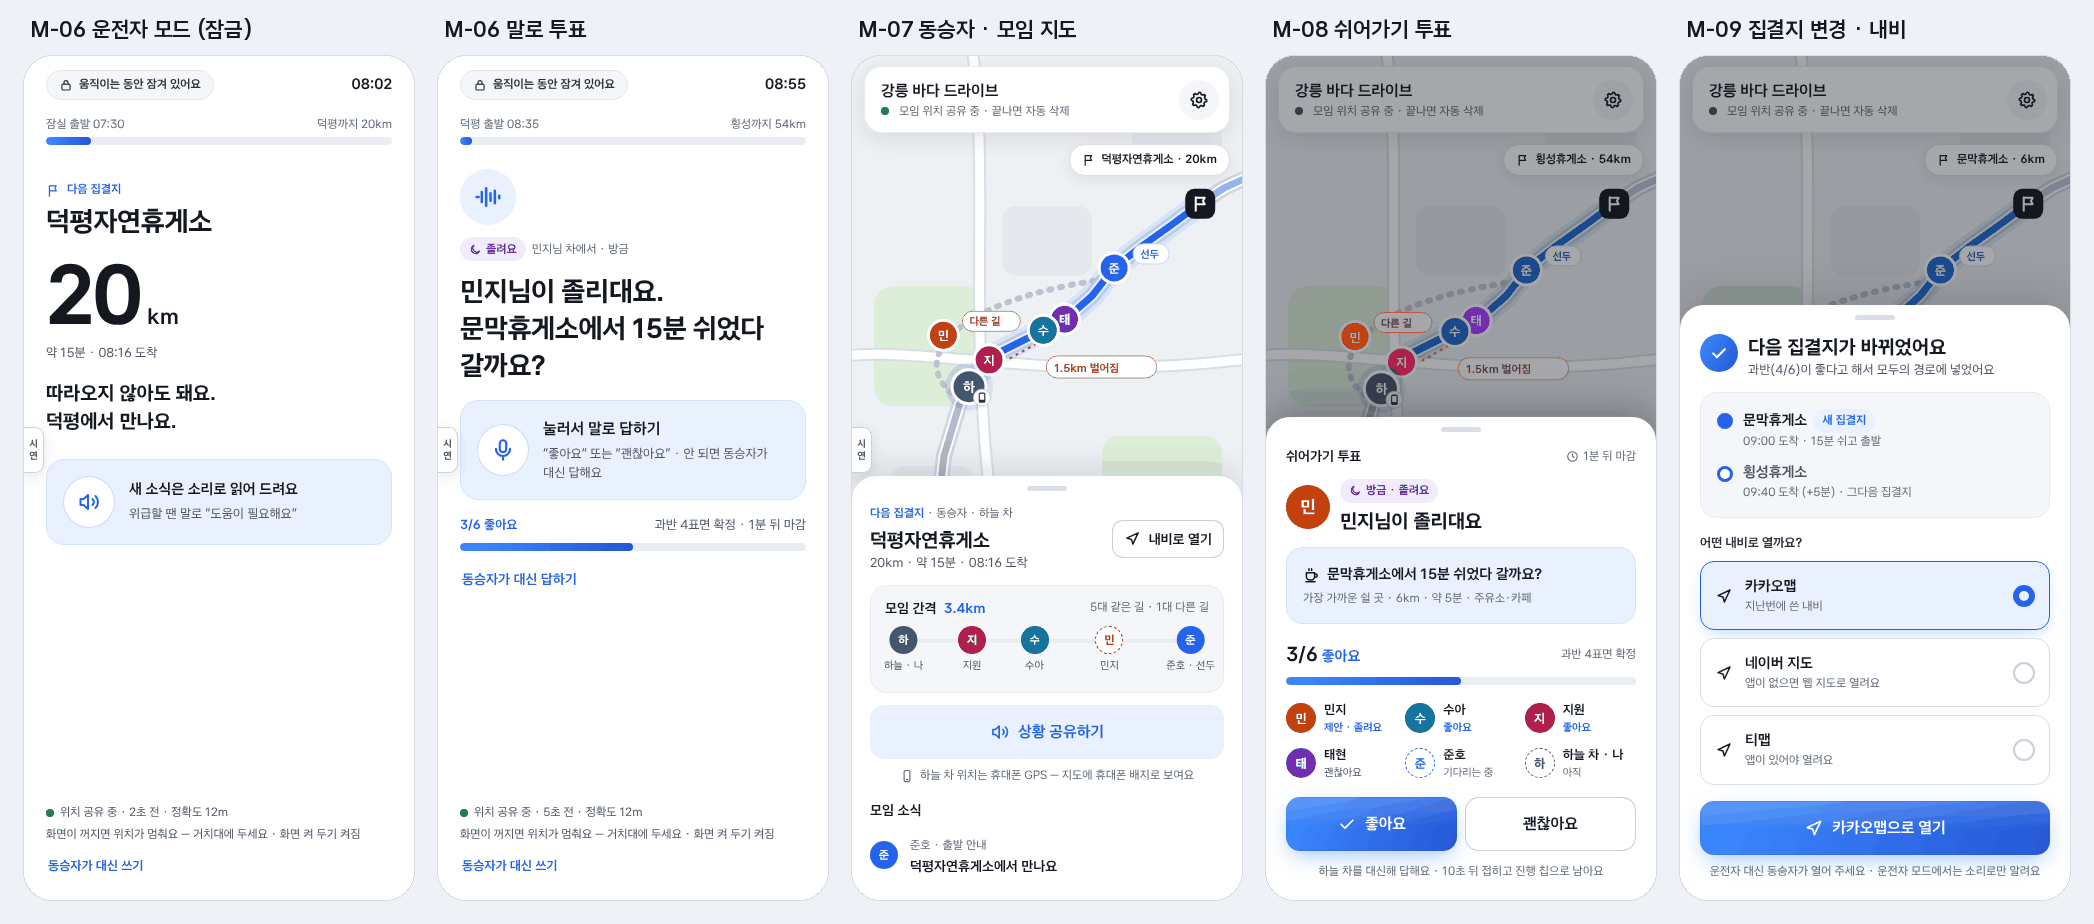
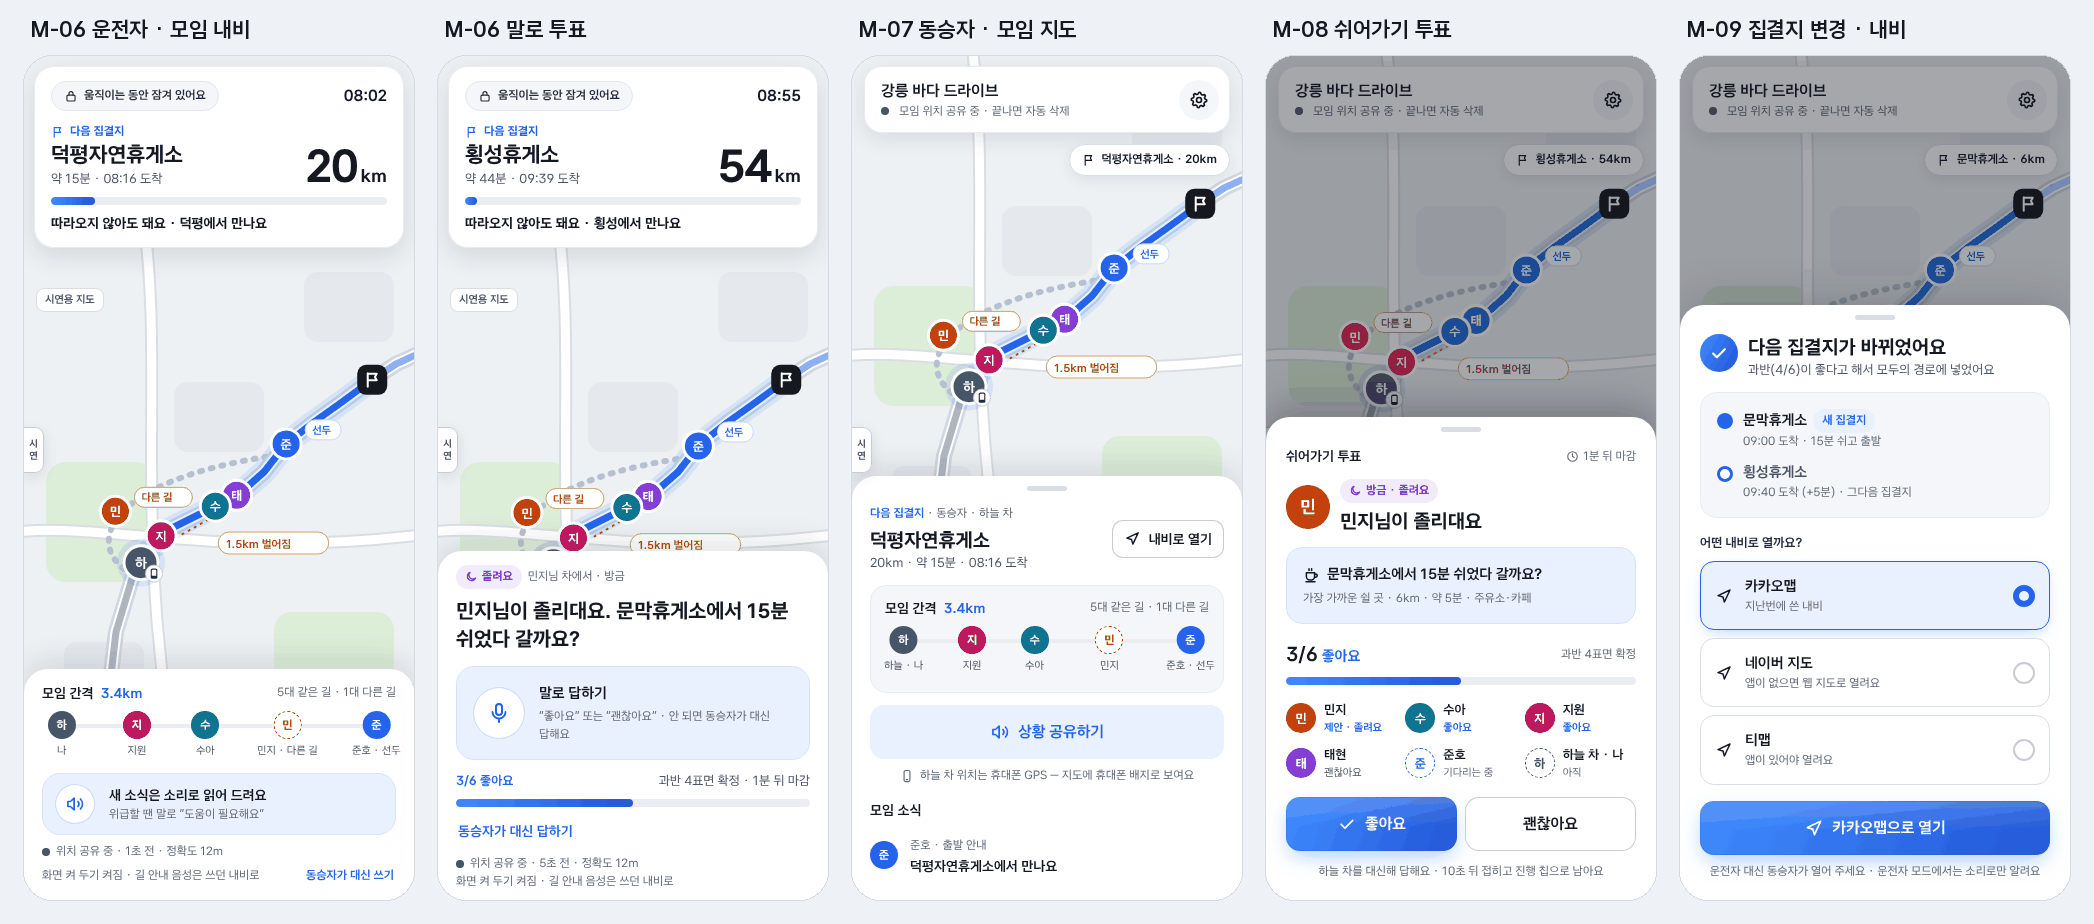
휴대폰 운전자 모드를 ‘모임 내비’ 화면으로: 지도 · 모임 차 위치 · 다음 집결지를 크게
- 움직이는 동안 잠금 카드 대신, 거치한 휴대폰에 모임 지도(다음 집결지 · 남은 거리 · 도착 예정 ·
  모임 차 위치와 간격)를 띄움. 지리안내 영상 표시는 허용, 운전 중 조작은 금지(도로교통법 제49조)라
  누르지 않아도 되게: 소식은 소리로, 쉬어가기 투표는 말로, 누르는 시트는 운전자 모드에서 띄우지 않음
- 투표가 오면 지도 아래에 크게 · 집결지가 바뀌면 위 카드에 ‘바뀐 집결지’
- README · mobile/README 화면과 설명 갱신

Claude-Session: https://claude.ai/code/session_01RMhvkZbt1yyGmq5ZhrM1H7

diff --git a/mobile/src/screens/Trip.tsx b/mobile/src/screens/Trip.tsx
@@ -84,82 +84,100 @@ export function TripScreen() {
   if (!trip.active || trip.step === 'lobby') return null
   if (trip.step === 'regroup1') return <ArriveView />
   if (trip.step === 'ended') return <EndView />
-  if (role === 'driver' && !trip.unlocked) return <DriverLock />
+  if (role === 'driver' && !trip.unlocked) return <DriverNav />
   return <PassengerMap />
 }
 
-// ---------------- M-06 운전자 모드 · 움직이는 동안 잠금 ----------------
+// ---------------- M-06 운전자 모드 · 모임 내비 (움직이는 동안 잠금) ----------------
+// 거치한 휴대폰에 지도(지리안내 영상)를 보여 주는 것은 괜찮지만, 운전 중 조작은 안 된다 (도로교통법 제49조).
+// 그래서 누르지 않아도 되는 화면: 다음 집결지 · 남은 거리 · 모임 차 위치와 간격을 크게, 소식은 소리로, 답은 말로.
 
-function DriverLock() {
+function DriverNav() {
   const trip = useApp((s) => s.trip)
   const keepAwake = useApp((s) => s.settings.keepAwake)
   const all = useMembers()
   const loc = useLocationLine()
+  const { markers, gap, gapText } = useMarkers()
   const next = nextOf(trip)
   const vote = trip.vote
   const pending = vote && !trip.voteResult
   const proposer = vote ? all.find((m) => m.id === vote.proposerId) : undefined
   const startKm = START_KM[trip.step] ?? 21
-  const prevStop = trip.step === 'drive1' ? '잠실 출발 07:30' : trip.munmak ? '횡성 가는 길' : '덕평 출발 08:35'
   const myVote = vote?.votes[ME]
+  const order = ['me', 'jiwon', 'sua', 'minji', 'junho']
   return (
-    <div className="lock">
-      <div className="spread">
-        <span className="lock-pill">
-          <Icon name="lock" size={14} /> 움직이는 동안 잠겨 있어요
-        </span>
-        <b style={{ fontSize: 15 }}>{liveClock(trip)}</b>
+    <div className="mapscreen">
+      <div className="drive-map">
+        <MockMap markers={markers} gapBetween={gap} gapText={gapText} />
       </div>
-      {next && (
-        <div className="mt16">
-          <div className="spread tiny">
-            <span>{prevStop}</span>
-            <span>
-              {next.short}까지 {next.km}km
-            </span>
-          </div>
-          <div className="mt4">
-            <Progress value={startKm - next.km + 2} max={startKm + 2} />
-          </div>
-        </div>
-      )}
-
-      {pending && vote ? (
-        <div className="mt24">
-          <span className="lock-wave">
-            <Icon name="wave" size={30} />
+      <div className="drive-card">
+        <div className="spread">
+          <span className="lock-pill">
+            <Icon name="lock" size={14} /> 움직이는 동안 잠겨 있어요
           </span>
-          <p className="mt12 row" style={{ gap: 6 }}>
-            <Chip tone="night" icon="moon">
-              {SIGNAL_LABEL.SLEEPY}
-            </Chip>
-            <span className="tiny">{proposer?.id === ME ? '내가 제안 · 방금' : `${proposer?.name}님 차에서 · 방금`}</span>
-          </p>
-          <h1 className="h1 mt12" style={{ fontSize: 28 }}>
-            {proposer?.id === ME ? '쉬어가기를 제안했어요.' : `${proposer?.name}님이 졸리대요.`}
-            <br />
-            {vote.stopName}에서 {vote.restMinutes}분 쉬었다 갈까요?
-          </h1>
-          {myVote ? (
-            <Card className="mt16 accent">
-              <p className="row" style={{ fontWeight: 700, color: 'var(--accent)' }}>
-                <Icon name="checkCircle" /> ‘{myVote === 'YES' ? '좋아요' : '괜찮아요'}’로 답했어요
+          <b style={{ fontSize: 16 }}>{liveClock(trip)}</b>
+        </div>
+        {next && (
+          <>
+            <p className="tiny mt12 row" style={{ gap: 5, color: 'var(--accent)', fontWeight: 800 }}>
+              <Icon name="flag" size={14} /> {trip.munmak ? '바뀐 집결지' : '다음 집결지'}
+            </p>
+            <div className="spread" style={{ alignItems: 'flex-end' }}>
+              <div className="grow">
+                <h1 className="h2" style={{ fontSize: 22 }}>
+                  {next.name}
+                </h1>
+                <p className="small">
+                  약 {next.minutes}분 · {trip.munmak ? '09:00' : next.eta} 도착
+                </p>
+              </div>
+              <p className="drive-km">
+                {next.km}
+                <small>km</small>
               </p>
-              <p className="tiny mt4">다른 분들의 답을 기다리고 있어요 · 결과는 소리로 알려 드려요</p>
-            </Card>
-          ) : (
-            <button className="listen mt16" onClick={() => (canListen() ? listenForVote() : setTrip((t) => ({ ...t, unlocked: true, sheet: 'vote' })))}>
-              <span className={`listen-mic${trip.listening === 'vote' ? '' : ' idle'}`}>
-                <Icon name="mic" size={26} />
-              </span>
-              <span className="grow">
-                <b style={{ fontSize: 16 }}>{trip.listening === 'vote' ? '듣고 있어요 — 말로 답해 주세요' : canListen() ? '눌러서 말로 답하기' : '이 브라우저는 음성 인식이 없어요'}</b>
-                <p className="small mt4">“좋아요” 또는 “괜찮아요” · 안 되면 동승자가 대신 답해요</p>
-              </span>
-            </button>
-          )}
-          <div className="mt16">
-            <div className="spread small">
+            </div>
+            <div className="mt8">
+              <Progress value={startKm - next.km + 2} max={startKm + 2} />
+            </div>
+            <p className="mt8" style={{ fontSize: 14, fontWeight: 800 }}>
+              따라오지 않아도 돼요 · {next.short}에서 만나요
+            </p>
+          </>
+        )}
+      </div>
+      <span className="map-demo" style={{ top: 'calc(232px + env(safe-area-inset-top))', bottom: 'auto' }}>
+        시연용 지도
+      </span>
+
+      <div className="drive-bottom">
+        {pending && vote ? (
+          <>
+            <p className="row" style={{ gap: 6 }}>
+              <Chip tone="night" icon="moon">
+                {SIGNAL_LABEL.SLEEPY}
+              </Chip>
+              <span className="tiny">{proposer?.id === ME ? '내가 제안 · 방금' : `${proposer?.name}님 차에서 · 방금`}</span>
+            </p>
+            <h2 className="h2 mt8" style={{ fontSize: 21 }}>
+              {proposer?.id === ME ? '쉬어가기를 제안했어요. ' : `${proposer?.name}님이 졸리대요. `}
+              {vote.stopName}에서 {vote.restMinutes}분 쉬었다 갈까요?
+            </h2>
+            {myVote ? (
+              <p className="small mt8 row" style={{ gap: 6, color: 'var(--accent)', fontWeight: 700 }}>
+                <Icon name="checkCircle" size={18} /> ‘{myVote === 'YES' ? '좋아요' : '괜찮아요'}’로 답했어요 · 결과는 소리로 알려 드려요
+              </p>
+            ) : (
+              <button className="listen mt12" onClick={() => (canListen() ? listenForVote() : setTrip((t) => ({ ...t, unlocked: true, sheet: 'vote' })))}>
+                <span className={`listen-mic${trip.listening === 'vote' ? '' : ' idle'}`}>
+                  <Icon name="mic" size={24} />
+                </span>
+                <span className="grow">
+                  <b>{trip.listening === 'vote' ? '듣고 있어요 — 말로 답해 주세요' : canListen() ? '말로 답하기' : '이 브라우저는 음성 인식이 없어요'}</b>
+                  <p className="tiny mt4">“좋아요” 또는 “괜찮아요” · 안 되면 동승자가 대신 답해요</p>
+                </span>
+              </button>
+            )}
+            <div className="spread small mt12">
               <b style={{ color: 'var(--accent)' }}>
                 {yesCount(vote)}/{vote.memberIds.length} 좋아요
               </b>
@@ -168,60 +186,57 @@ function DriverLock() {
             <div className="mt8">
               <Progress value={yesCount(vote)} max={vote.memberIds.length} />
             </div>
-          </div>
-          <button className="link-btn mt12" onClick={() => setTrip((t) => ({ ...t, unlocked: true, sheet: 'vote' }))}>
-            동승자가 대신 답하기
-          </button>
+            <button className="link-btn mt8" onClick={() => setTrip((t) => ({ ...t, unlocked: true, sheet: 'vote' }))}>
+              동승자가 대신 답하기
+            </button>
+          </>
+        ) : (
+          <>
+            <div className="spread">
+              <p style={{ fontSize: 14 }}>
+                <b>모임 간격</b> <b className="accent-text" style={{ marginLeft: 4 }}>{stepOf(trip.step).gapKm ?? 3.4}km</b>
+              </p>
+              <span className="tiny">5대 같은 길 · 1대 다른 길</span>
+            </div>
+            <div className="gapbar">
+              <span className="gapbar-line" />
+              {order.map((id, i) => {
+                const m = all.find((x) => x.id === id)!
+                return (
+                  <span className="gapbar-item" key={id} style={{ left: `${[4, 26, 46, 70, 96][i]}%` }}>
+                    <Avatar m={m} size={28} dashed={id === 'minji'} />
+                    <span>{id === ME ? '나' : id === 'junho' ? `${m.name} · 선두` : id === 'minji' ? `${m.name} · 다른 길` : m.name}</span>
+                  </span>
+                )
+              })}
+            </div>
+            <button className="listen mt8" style={{ padding: '10px 12px' }} onClick={listenForSignal}>
+              <span className={`listen-mic${trip.listening === 'signal' ? '' : ' idle'}`} style={{ width: 40, height: 40 }}>
+                <Icon name={trip.listening === 'signal' ? 'mic' : 'volume'} size={20} />
+              </span>
+              <span className="grow">
+                <b style={{ fontSize: 14 }}>{trip.listening === 'signal' ? '듣고 있어요…' : '새 소식은 소리로 읽어 드려요'}</b>
+                <p className="tiny">위급할 땐 말로 “도움이 필요해요”</p>
+              </span>
+            </button>
+          </>
+        )}
+        <div className="spread mt8">
+          <p className="tiny row" style={{ gap: 0 }}>
+            <span className={`dot-live${loc.tone === 'on' ? '' : ` ${loc.tone}`}`} />
+            {loc.text}
+          </p>
         </div>
-      ) : next ? (
-        <div className="mt24">
-          {trip.munmak && (
-            <Chip tone="accent" icon="checkCircle">
-              과반이 좋다고 해서 바뀐 집결지예요
-            </Chip>
+        <div className="spread">
+          <span className="tiny">화면 켜 두기 {keepAwake ? '켜짐' : '꺼짐'} · 길 안내 음성은 쓰던 내비로</span>
+          {!pending && (
+            <button className="link-btn" style={{ fontSize: 12 }} onClick={() => setTrip((t) => ({ ...t, unlocked: true }))}>
+              동승자가 대신 쓰기
+            </button>
           )}
-          <p className="row tiny mt12" style={{ gap: 6, color: 'var(--accent)', fontWeight: 700 }}>
-            <Icon name="flag" size={15} /> 다음 집결지
-          </p>
-          <h1 className="h1 mt4" style={{ fontSize: 28 }}>
-            {next.name}
-          </h1>
-          <p className="lock-big mt12">
-            {next.km}
-            <small>km</small>
-          </p>
-          <p className="small mt8">
-            약 {next.minutes}분 · {trip.munmak ? '09:00' : next.eta} 도착
-          </p>
-          <p className="mt16" style={{ fontSize: 20, fontWeight: 800, lineHeight: 1.4 }}>
-            따라오지 않아도 돼요.
-            <br />
-            {next.short}에서 만나요.
-          </p>
-          <button className="listen mt24" onClick={listenForSignal}>
-            <span className={`listen-mic${trip.listening === 'signal' ? '' : ' idle'}`}>
-              <Icon name={trip.listening === 'signal' ? 'mic' : 'volume'} size={24} />
-            </span>
-            <span className="grow">
-              <b>{trip.listening === 'signal' ? '듣고 있어요…' : '새 소식은 소리로 읽어 드려요'}</b>
-              <p className="small mt4">위급할 땐 말로 “도움이 필요해요”</p>
-            </span>
-          </button>
         </div>
-      ) : null}
-
-      <div className="lock-foot">
-        <p className="row" style={{ gap: 0 }}>
-          <span className={`dot-live${loc.tone === 'on' ? '' : ` ${loc.tone}`}`} />
-          {loc.text}
-        </p>
-        <p className="mt4">
-          화면이 꺼지면 위치가 멈춰요 — 거치대에 두세요 · 화면 켜 두기 {keepAwake ? '켜짐' : '꺼짐'}
-        </p>
-        <button className="link-btn mt8" style={{ fontSize: 13 }} onClick={() => setTrip((t) => ({ ...t, unlocked: true }))}>
-          동승자가 대신 쓰기
-        </button>
       </div>
+      {/* 운전자 모드에서는 누르는 시트를 띄우지 않는다 (투표는 말로, 집결지 변경은 위 카드와 소리로) */}
     </div>
   )
 }

diff --git a/mobile/src/styles.css b/mobile/src/styles.css
@@ -1668,3 +1668,51 @@ p {
 
 .demo-links { display: grid; grid-template-columns: repeat(3, 1fr); gap: 6px; }
 .demo-links .btn { width: 100%; padding: 0 6px; font-size: 13px; white-space: nowrap; gap: 4px; }
+
+/* 운전자 모드 · 모임 내비 (지도는 머리 카드 아래부터) */
+.drive-map {
+  position: absolute;
+  top: calc(176px + env(safe-area-inset-top));
+  left: 0;
+  right: 0;
+  bottom: 0;
+}
+
+.drive-card {
+  position: absolute;
+  z-index: 3;
+  top: calc(10px + env(safe-area-inset-top));
+  left: 10px;
+  right: 10px;
+  padding: 14px 16px 14px;
+  border-radius: 20px;
+  background: rgba(255, 255, 255, 0.98);
+  border: 1px solid #e8ecf1;
+  box-shadow: 0 8px 26px rgba(20, 24, 32, 0.12);
+}
+
+.drive-km {
+  font-size: 46px;
+  font-weight: 800;
+  line-height: 1;
+  letter-spacing: -0.03em;
+  white-space: nowrap;
+}
+
+.drive-km small {
+  font-size: 18px;
+  margin-left: 3px;
+  letter-spacing: 0;
+}
+
+.drive-bottom {
+  position: absolute;
+  z-index: 4;
+  left: 0;
+  right: 0;
+  bottom: 0;
+  padding: 14px 18px calc(10px + env(safe-area-inset-bottom));
+  border-radius: 24px 24px 0 0;
+  background: #fff;
+  box-shadow: 0 -8px 30px rgba(20, 24, 32, 0.12);
+}

diff --git a/mobile/src/screens/Join.tsx b/mobile/src/screens/Join.tsx
@@ -447,7 +447,7 @@ export function SetupRole() {
             </span>
             <span className="grow">
               <b>운전해요</b>
-              <p className="tiny">움직이는 동안 화면이 잠기고, 소식은 소리로 들려 드려요</p>
+              <p className="tiny">움직이는 동안은 누르지 않아도 되는 모임 지도가 떠요. 소식은 소리로 들려 드려요</p>
             </span>
             <span className="radio" />
           </button>

diff --git a/mobile/src/screens/Demo.tsx b/mobile/src/screens/Demo.tsx
@@ -54,7 +54,7 @@ export function DemoTab() {
             setTrip((t) => ({ ...t, unlocked: false }))
           }}
           options={[
-            { value: 'driver', label: '운전해요', sub: 'M-06 잠금 화면' },
+            { value: 'driver', label: '운전해요', sub: 'M-06 모임 내비' },
             { value: 'passenger', label: '같이 타고 가요', sub: 'M-07 모임 지도' },
           ]}
         />

diff --git a/README.md b/README.md
@@ -74,7 +74,7 @@ SDK 리스너는 `data/pleos/PleosBridge.java`에서 감싸 SDK 버전 변화에
 | 참여 (M-01 ~ M-03) |
 |---|
 | ![휴대폰 참여](docs/screenshots/mobile_1_join.png) |
-| **여행 중 — 운전자는 잠금 · 소리, 동승자는 지도 · 투표 (M-06 ~ M-09)** |
+| **여행 중 — 운전자는 누르지 않아도 되는 모임 내비 · 소리 · 말로 투표, 동승자는 지도 · 투표 (M-06 ~ M-09)** |
 | ![휴대폰 여행 중](docs/screenshots/mobile_2_trip.png) |
 | **도착 · 홈 · 내 메시지 (M-10 · M-11 · M-04 · M-13 · M-14)** |
 | ![휴대폰 도착과 내 메시지](docs/screenshots/mobile_3_more.png) |
